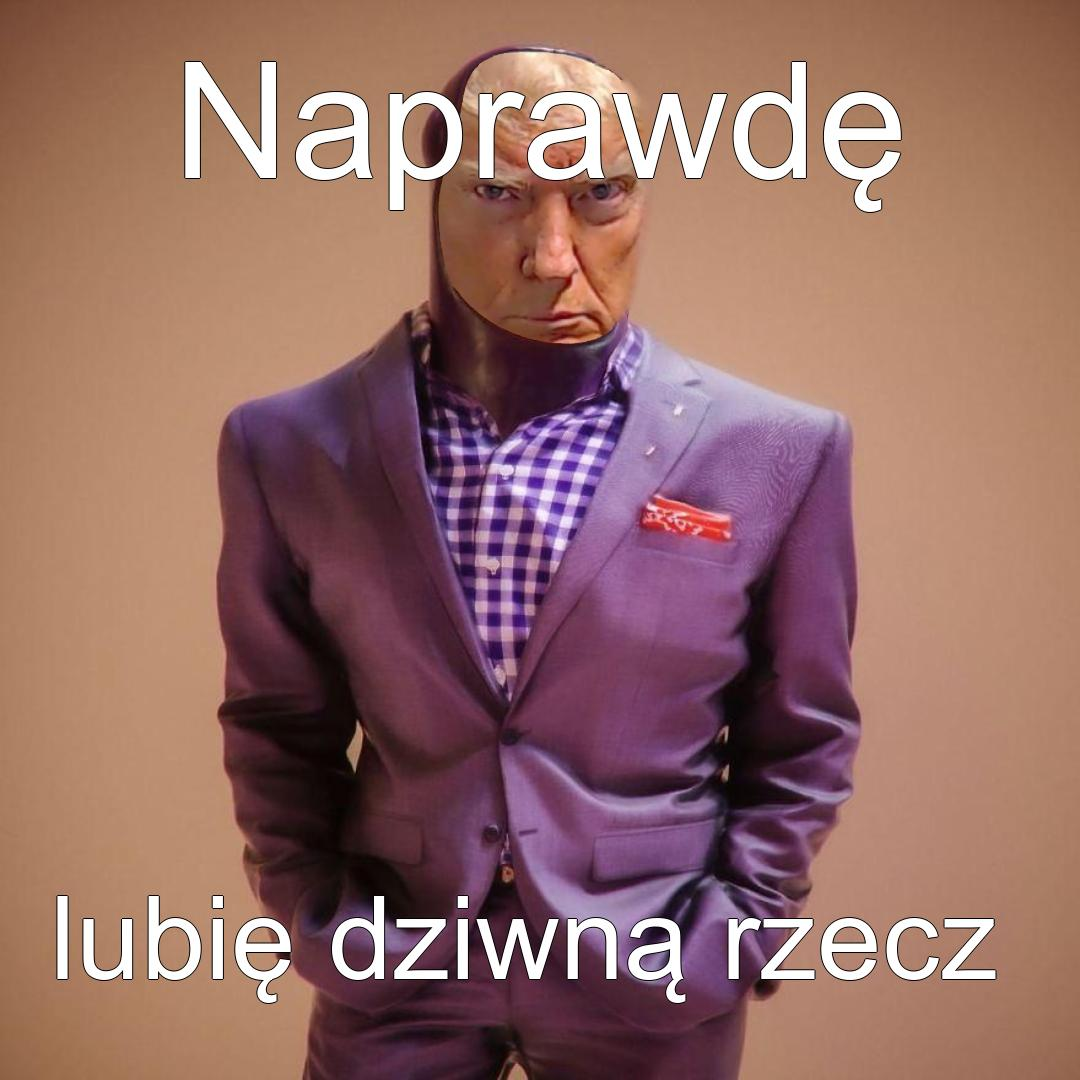
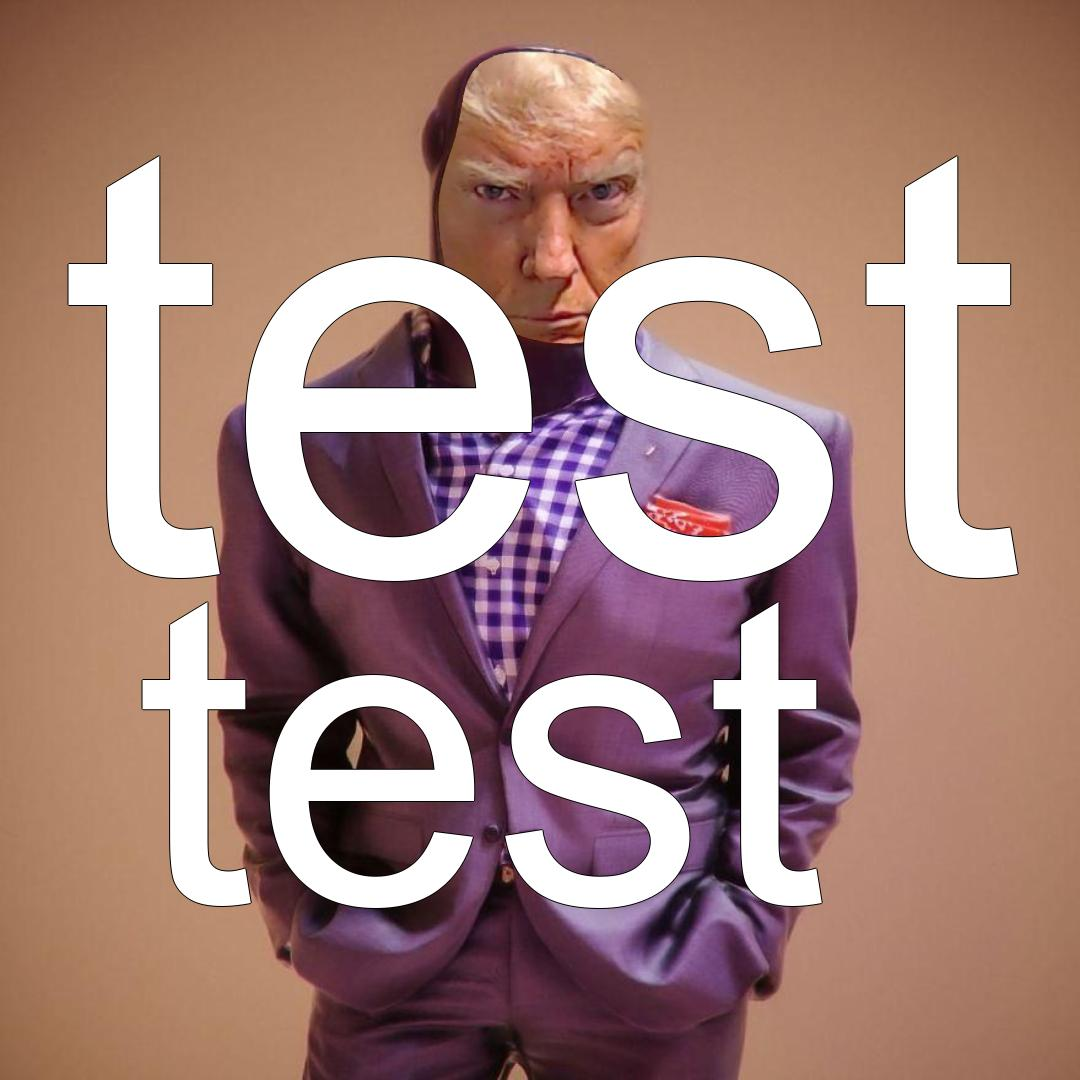
works now

Changed region(s): [[0.0306, 0.0611, 0.9472, 0.9472]]

diff --git a/src/bot.py b/src/bot.py
@@ -38,9 +38,10 @@ async def on_ready():
     ) 
 
 
-# @client.event
+@client.event
 async def on_message(message):
-    if message.author == client.user or message.content.startswith('!') or message.content.startswith('http') or message.content.startswith('https') or message.content.startswith('<'):
+    force=False
+    if message.author == client.user or message.content.startswith('http') or message.content.startswith('https') or message.content.startswith('<'):
         return
     if message.content == 'raise-exception':
         raise discord.DiscordException
@@ -52,8 +53,11 @@ async def on_message(message):
         # await message.channel.send('Message is too short')
         logging.info(f"Message is too short: {message.content}")
         return
+    if message.content.startswith("!memize "):
+        message.content=message.content.replace("!memize ", "")
+        force=True
         
-    if predict_if_hard(message.content):
+    if predict_if_hard(message.content) or force:
         chosen_template=random.randint(0, len(const.image_path)-1)
         create_meme(chosen_template, message.content)
         meme_path=os.path.abspath(const.name_to_save)
